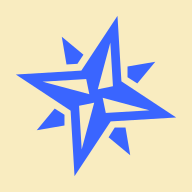
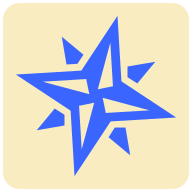
pwa adjustments

Changed region(s): [[0.0, 0.0, 1.0, 1.0]]

diff --git a/web/src/index.js b/web/src/index.js
@@ -83,23 +83,30 @@ const basemaps = {
   }),
 };
 
+const cors = window.location.hostname != 'freenauticalchart.net';
+log('CORS', 'blue', cors);
+
 const overlays = {
   'Grid': grid(params.get('dec')),
   'QMAP DE': L.tileLayer.fallback(baseurl + '/qmap-de/{z}/{x}/{y}.webp', {
     attribution: '<a href="/download/">QMAP DE</a> (<a target="_blank" href="https://www.geoseaportal.de/mapapps/resources/apps/navigation/">BSH</a>)',
     bounds: boundsDE,
+    crossOrigin: cors,
   }),
   'QMAP Contours DE': L.tileLayer.fallback(baseurl + '/contours-de/{z}/{x}/{y}.webp', {
     attribution: '<a href="/download/">QMAP Contours DE</a> (<a target="_blank" href="https://www.geoseaportal.de/mapapps/resources/apps/navigation/">BSH</a>)',
     bounds: boundsDE,
+    crossOrigin: cors,
   }),
   'QMAP Soundings DE': L.tileLayer.fallback(baseurl + '/soundg-de/{z}/{x}/{y}.webp', {
     attribution: '<a href="/download/">QMAP Soundings DE</a> (<a target="_blank" href="https://gdi.bsh.de/de/feed/Hoehe-Bathymetrie.xml">BSH</a>)',
     bounds: boundsDE,
+    crossOrigin: cors,
   }),
   'QMAP NL': L.tileLayer.fallback(baseurl + '/qmap-nl/{z}/{x}/{y}.webp', {
     attribution: '<a href="/download/">QMAP NL</a> (<a target="_blank" href="https://www.vaarweginformatie.nl/frp/main/#/page/infra_enc">RWS</a>)',
     bounds: boundsNL,
+    crossOrigin: cors,
   }),
   'EMODnet Bathymetry': L.tileLayer.wms('https://ows.emodnet-bathymetry.eu/wms', {
     version: '1.3.0',
@@ -193,6 +200,11 @@ for (let i = -6; i <= 6; i++) {
 overlays['Tide Figures'] = L.tileLayer.fallback(baseurl + '/tides/fig/{z}/{x}/{y}.webp', {
   attribution: '<a target="_blank" href="https://www.geoseaportal.de/mapapps/resources/apps/gezeitenstromatlas">BSH Tidal Atlas</a>'
 });
+
+if (isDevMode) {
+  overlays['QMAP DE*'] = L.tileLayer('http://nas:8001/tiles/qmap-de/EPSG3857/{z}/{x}/{y}.png');
+  overlays['QMAP NL*'] = L.tileLayer('http://nas:8001/tiles/qmap-nl/EPSG3857/{z}/{x}/{y}.png');
+}
 
 const map = L.map('map', {
   center: [54.264, 9.196],
@@ -294,7 +306,7 @@ new GPXbutton({position: 'topleft', layers: layers}).addTo(map);
 
 legend(layers);
 
-if (isDevMode||params.get('vector') == '1') {
+if (isDevMode || params.get('vector') == '1') {
   import('@maplibre/maplibre-gl-leaflet').then(maplibre => {
     console.log('maplibre', maplibre);
     layers.addBaseLayer(L.maplibreGL({
@@ -303,7 +315,7 @@ if (isDevMode||params.get('vector') == '1') {
   });
 }
 
-if (isDevMode||params.get('wattpaddler') == '1') {
+if (isDevMode || params.get('wattpaddler') == '1') {
   import('./besondere.json');
   import('./allgemeine.json');
   import('./kite.json');

diff --git a/web/src/index.html b/web/src/index.html
@@ -1,9 +1,11 @@
 <!DOCTYPE html>
-<html>
+<html lang="en">
 <head>
   <meta charset="utf-8"/>
   <title>free nautical chart</title>
   <link rel="manifest" href="manifest.json"/>
+  <link rel="canonical" href="https://freenauticalchart.net/">
+  <meta name="description" content="free nautical chart based on open data">
   <meta name="viewport" content="initial-scale=1,maximum-scale=1,user-scalable=no">
   <script>window.devicePixelRatio = 2</script>
 </head>

diff --git a/web/webpack.config.js b/web/webpack.config.js
@@ -58,7 +58,7 @@ module.exports = (env, argv) => {
             options: {
               cacheName: 'tiles',
               expiration: {
-                maxEntries: 10000,
+                maxEntries: 50000,
                 maxAgeSeconds: 7 * 24 * 3600,
               },
             },
